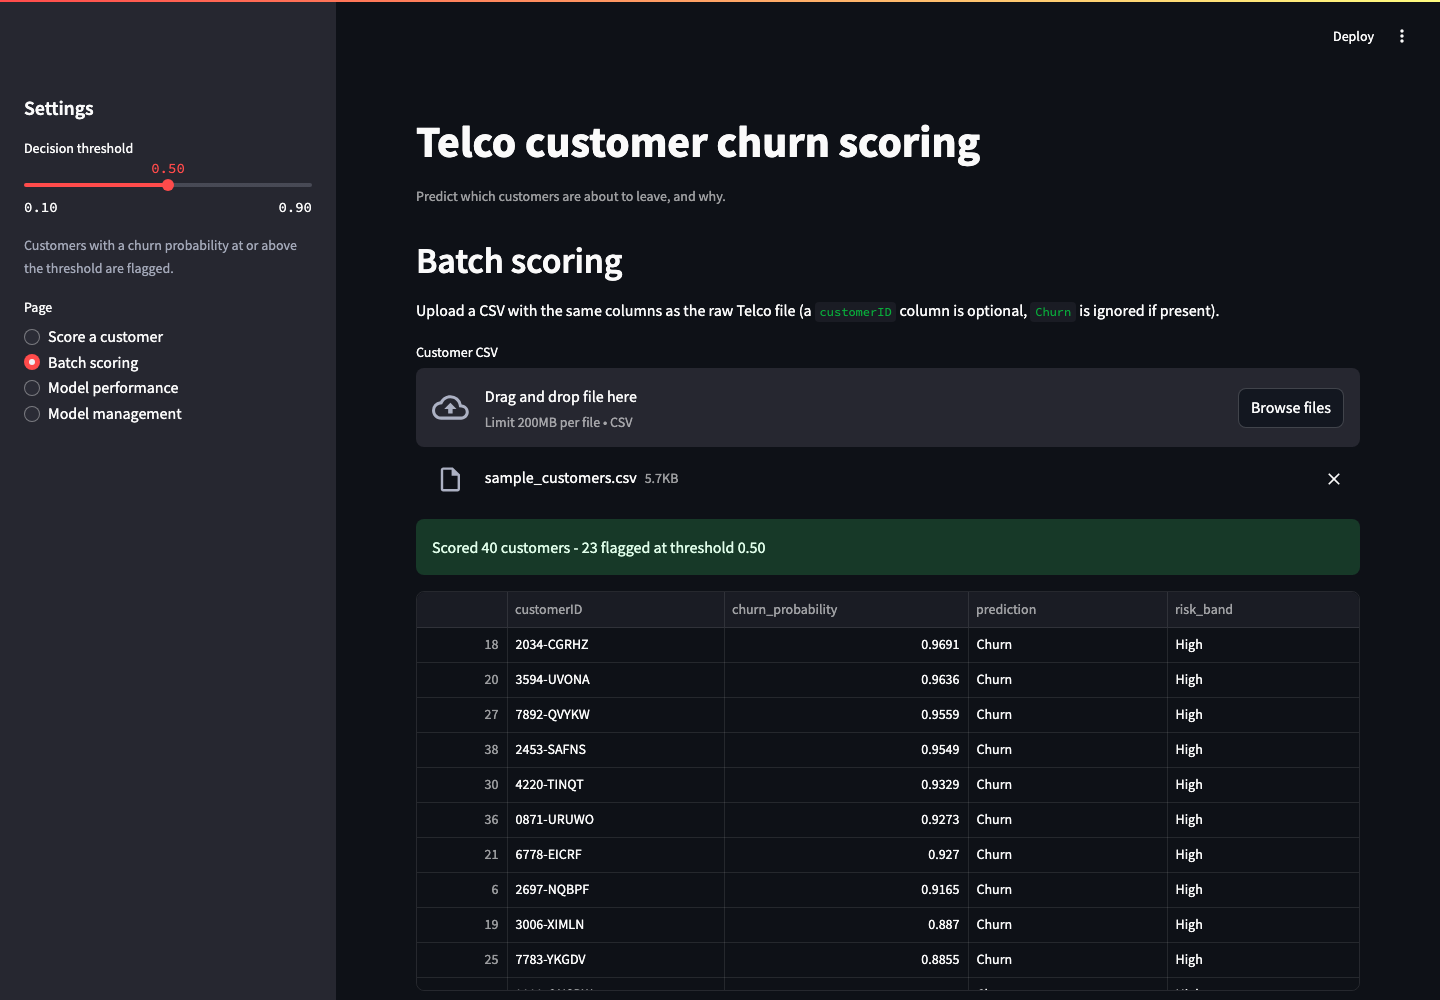
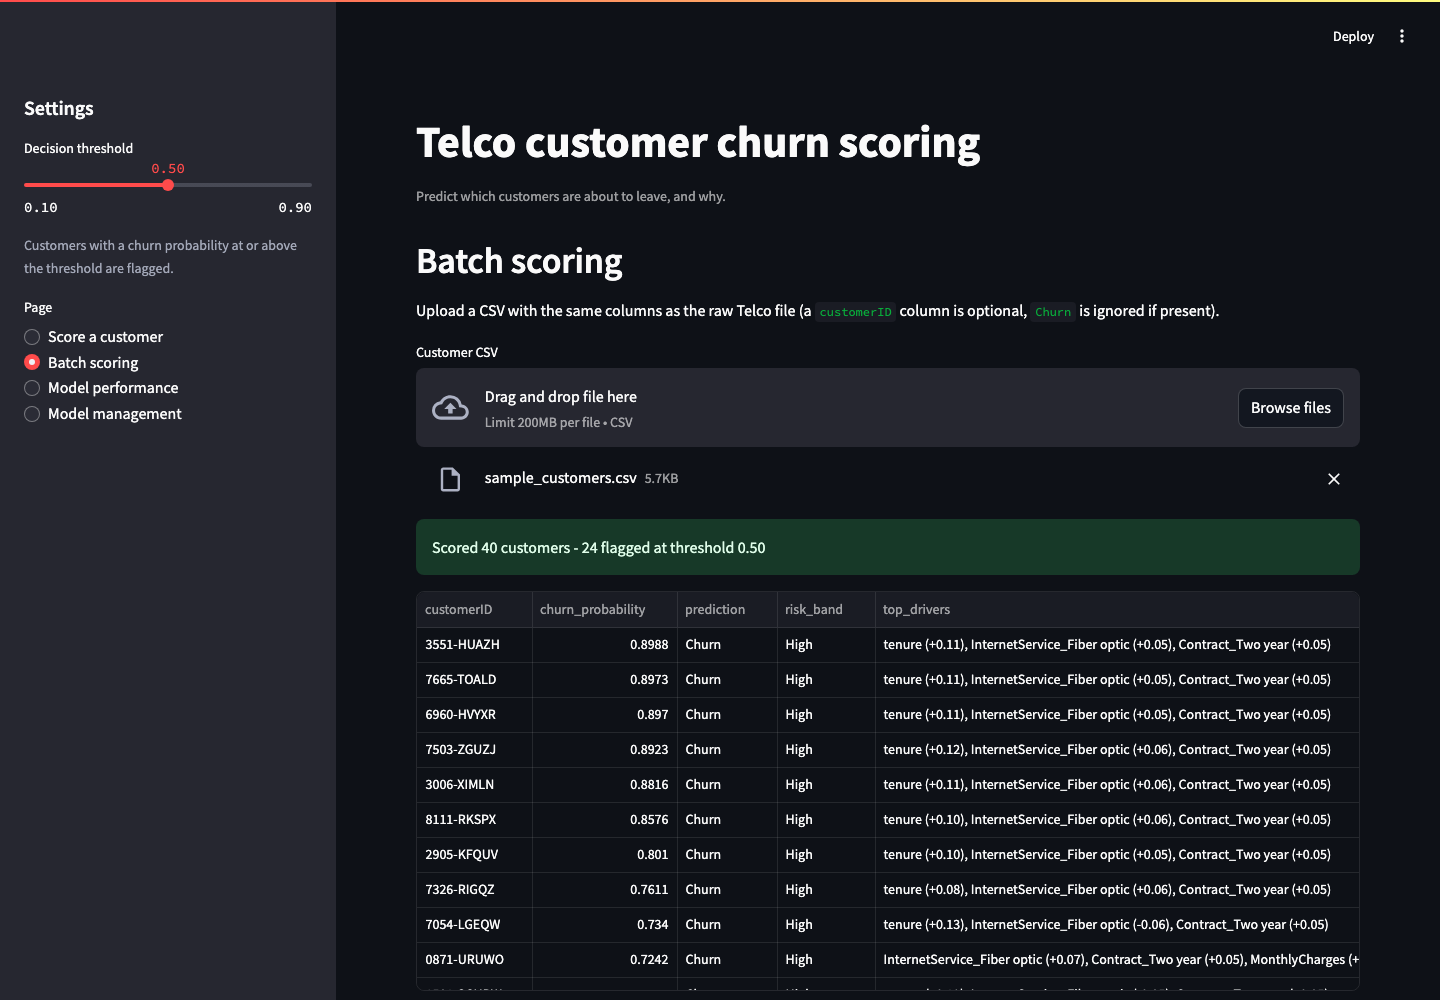
README: real cross-validated numbers, explainability and testing sections
The comparison tables now quote the pipeline CV and the single pass over the
untouched test split, the chosen model is the tuned Random Forest, and the
screenshots show the SHAP contributions. Re-ran the EDA notebook so every
notebook's outputs come from the current code.

diff --git a/README.md b/README.md
@@ -3,7 +3,7 @@
 An end-to-end churn model for a telecom customer base: cleaning and exploring the IBM Telco
 dataset, engineering features, comparing four classifiers under stratified cross-validation,
 tuning the winner, explaining its predictions with SHAP, and putting it behind a small Streamlit
-app that scores single customers or a whole CSV.
+app that scores single customers or a whole CSV and shows what drove each score.
 
 ## Why I built this
 
@@ -33,36 +33,43 @@ data/processed/               telco_clean.csv (output of notebook 01)
 notebooks/
   01_data_cleaning.ipynb      types, duplicates, outliers, target balance
   02_eda.ipynb                univariate / bivariate analysis, correlation matrix
-  03_feature_engineering.ipynb derived features, encoding, mutual information
-  04_modelling.ipynb          SMOTE, 5-fold CV comparison, tuning, test-split results
-  05_explainability.ipynb     SHAP global + local explanations of the final model
+  03_feature_engineering.ipynb derived features, train/test split, encoding, mutual information
+  04_modelling.ipynb          pipeline CV comparison, tuning, one pass over the test split
+  05_explainability.ipynb     SHAP global + local explanations, permutation importance
 src/
   data.py                     load / clean helpers
-  features.py                 derived columns, encoding + scaling
-  train.py                    model zoo, cross-validated comparison, random search
+  features.py                 derived columns and the encoding + scaling ColumnTransformer
+  train.py                    model zoo, imblearn pipelines, CV comparison, random search
   metrics.py                 metrics and diagnostic plots
+  explain.py                  SHAP helpers shared by notebook 05 and the app
 app/streamlit_app.py          scoring UI
-models/                       saved model, scaler and feature list
+models/                       churn_pipeline.joblib (preprocessor + model), feature list
 reports/figures/              every plot referenced below
 reports/metrics.json          numbers the app and this README quote
-tests/                        pytest suite for the feature pipeline and scoring path
+tests/                        pytest suite for the cleaning rules, features and scoring path
+data/sample_customers.csv     40 real customers for the batch page and the tests
 ```
 
 ## Approach
 
-1. **Cleaning** (`01`) - parse `TotalCharges` to numeric, normalise `SeniorCitizen` to Yes/No,
-   collapse the redundant `No internet service` levels, check duplicates and IQR outliers.
+1. **Cleaning** (`01`) - parse `TotalCharges` to numeric (its eleven blanks are single spaces
+   that `isna()` misses; they are all first-month customers and become 0 explicitly), normalise
+   `SeniorCitizen` to Yes/No, collapse the redundant `No internet service` levels, check
+   duplicates and IQR outliers.
 2. **EDA** (`02`) - churn rate by every categorical, distributions of tenure and charges, a
    correlation matrix, and written conclusions under each plot.
 3. **Feature engineering** (`03`) - `avg_monthly_charge`, `charge_ratio`, `num_services` and
-   `tenure_group`; one-hot encoding and standard scaling; mutual-information ranking.
-4. **Modelling** (`04`) - SMOTE for the imbalance, Logistic Regression vs Random Forest vs XGBoost
-   vs LightGBM under stratified 5-fold CV, random-search tuning of the best family, scoring on
-   a held-out 20% split, threshold sweep.
-5. **Explainability** (`05`) - SHAP summary and dependence plots for the tuned model, plus local
-   explanations for individual customers.
-6. **App** - Streamlit UI with a single-customer form, batch CSV scoring, a threshold slider and a
-   performance page.
+   `tenure_group`; a stratified 80/20 split *before* anything is fitted; a `ColumnTransformer`
+   (one-hot + standard scaling) fit on the training rows; mutual-information ranking.
+4. **Modelling** (`04`) - every model is an imbalanced-learn pipeline
+   `preprocessor -> SMOTE -> classifier`, so resampling and scaling happen inside each CV fold.
+   Logistic Regression vs Random Forest vs XGBoost vs LightGBM under stratified 5-fold CV,
+   `RandomizedSearchCV` on the training split for the best family, then a single scoring pass over
+   the untouched 20%, plus a threshold sweep.
+5. **Explainability** (`05`) - SHAP summary, dependence and waterfall plots for the tuned model,
+   cross-checked with permutation importance.
+6. **App** - Streamlit UI with a single-customer form, batch CSV scoring, SHAP contributions for
+   every score, a threshold slider, a performance page and a locked model-management page.
 
 ## EDA insights
 
@@ -94,65 +101,99 @@ in the first twelve months.
 average monthly charge instead of leaning on both. Against the target, tenure is the strongest
 linear signal (-0.35).
 
+Two things the EDA settled for the modelling: the target is 26.5% positive, so accuracy alone
+would flatter a model that never predicts churn, and the "first twelve months" effect is a step,
+not a slope, which favours tree models or an explicit tenure bucket.
+
 ## Model comparison
 
-Stratified 5-fold cross-validation on the training split (means over folds):
+Stratified 5-fold cross-validation on the 5,634 training rows (means over folds; SMOTE and the
+scaler are refit inside every fold, the validation fold is real data):
 
 | Model | Accuracy | Precision | Recall | F1 | ROC-AUC |
 |---|---|---|---|---|---|
-| Logistic Regression | 0.8134 | 0.7965 | 0.8417 | 0.8185 | 0.9027 |
-| Random Forest | 0.8246 | 0.8014 | 0.8632 | 0.8311 | 0.9041 |
-| XGBoost | 0.8274 | 0.8057 | 0.8630 | 0.8333 | 0.9101 |
-| **LightGBM** | **0.8369** | **0.8215** | 0.8611 | **0.8407** | **0.9151** |
+| Logistic Regression | 0.7691 | 0.5512 | 0.7037 | 0.6181 | 0.8346 |
+| **Random Forest** | 0.7772 | 0.5626 | **0.7184** | **0.6307** | **0.8395** |
+| XGBoost | 0.7767 | 0.5636 | 0.7010 | 0.6247 | 0.8369 |
+| LightGBM | **0.7835** | **0.5788** | 0.6749 | 0.6229 | 0.8344 |
 
-Held-out test split (20%), default threshold 0.5:
+Held-out test split (1,409 customers, never resampled, scored once), default threshold 0.5:
 
-| Model | Accuracy | Precision | Recall | F1 | ROC-AUC |
-|---|---|---|---|---|---|
-| Logistic Regression | 0.8222 | 0.8040 | 0.8522 | 0.8274 | 0.9050 |
-| Random Forest | 0.8314 | 0.8046 | 0.8754 | 0.8385 | 0.9107 |
-| XGBoost | 0.8295 | 0.8067 | 0.8667 | 0.8356 | 0.9111 |
-| LightGBM | 0.8478 | 0.8232 | 0.8860 | 0.8534 | 0.9199 |
-| **LightGBM (tuned)** | 0.8440 | 0.8290 | 0.8667 | 0.8474 | **0.9266** |
+| Model | Accuracy | Precision | Recall | F1 | ROC-AUC | PR-AUC |
+|---|---|---|---|---|---|---|
+| Logistic Regression | 0.7679 | 0.5493 | 0.7005 | 0.6157 | 0.8344 | 0.6336 |
+| Random Forest | 0.7693 | 0.5499 | 0.7219 | 0.6243 | 0.8381 | 0.6376 |
+| XGBoost | 0.7693 | 0.5520 | 0.6952 | 0.6154 | 0.8327 | 0.6427 |
+| LightGBM | 0.7835 | 0.5762 | 0.6979 | 0.6312 | 0.8329 | 0.6389 |
+| **Random Forest (tuned)** | 0.7573 | 0.5288 | **0.7861** | **0.6323** | **0.8424** | **0.6509** |
 
 ![ROC curves](reports/figures/13_roc_curves.png)
 
+Why these numbers and not higher: with SMOTE applied only to the training folds and a test set
+that is 26.5% churners like the real base, ~0.84 ROC-AUC and ~0.63 F1 is what this dataset
+supports. Accuracy in the high 70s sounds worse than the 73% you get by predicting "stays" for
+everyone, but that trivial model has zero recall; these catch 70-79% of churners.
+
 ### Chosen model
 
-**LightGBM**, tuned by random search (`n_estimators=600, learning_rate=0.05, num_leaves=31,
-min_child_samples=40, subsample=0.85`). It has the best cross-validated ROC-AUC and F1, trains in
-under a second, and its tree structure gives cheap SHAP values for the app. Logistic regression is
-only ~1 point of AUC behind and would be the pick if interpretability of the raw coefficients
-mattered more than ranking quality.
+**Random Forest**, tuned by random search (`n_estimators=200, max_depth=6, max_features=0.3,
+min_samples_leaf=2`; CV ROC-AUC 0.8439). The four families sit within a fold's standard
+deviation (~0.01) of each other on ROC-AUC, so the pick came down to recall - the metric a
+retention campaign is paid on - where the forest leads at every threshold I looked at, and to
+cheap exact SHAP values from `TreeExplainer`. Tuning pushed it towards a shallower, more
+regularised forest that trades a few points of precision for +6 points of recall. Logistic
+regression is 0.8 points of AUC behind and would be the pick if the raw coefficients had to be
+presented to a non-technical audience.
 
-The threshold sweep (`reports/figures/16_threshold_sweep.png`) shows recall of 0.93 at a 0.3
-cut-off for a precision of 0.78 - the app exposes the threshold as a slider so a retention team
-can trade precision for recall depending on how many customers they can contact.
+The threshold sweep (`reports/figures/16_threshold_sweep.png`) shows F1 peaking at the default
+0.5 (precision 0.53, recall 0.79). Dropping the cut-off to 0.35 lifts recall to 0.90 at a
+precision of 0.44 - one real churner for every 2.3 customers contacted. The app exposes the
+threshold as a slider so a retention team can pick the point that matches their capacity.
 
 ## Explainability
 
-`05_explainability.ipynb` computes SHAP values for the tuned model on the test split.
-`reports/figures/18_shap_summary.png` is the global summary: contract type, tenure, the fiber
-optic flag and monthly charges drive most predictions, in that order. The app shows the same SHAP
-contributions for whichever customer is being scored.
+`05_explainability.ipynb` computes exact SHAP values for the tuned forest on the test split.
+
+![SHAP summary](reports/figures/18_shap_summary.png)
+
+Contract type is the biggest lever - a two-year contract pulls a customer's churn probability
+down by up to 0.3, a one-year by ~0.2 - followed by tenure, the fiber optic flag (which pushes
+*towards* churn for every customer that has it) and the `OnlineSecurity` add-on. The charge
+columns come next; gender, phone service, the streaming add-ons and my `charge_ratio` feature
+barely register. The dependence plot for tenure (`20_shap_dependence.png`) shows the effect is a
+step through the first year and flat afterwards, exactly the pattern the EDA found.
+
+| Customer the model is surest will churn | Surest will stay |
+|---|---|
+| ![churner](reports/figures/21_local_churner.png) | ![loyal](reports/figures/21_local_loyal.png) |
+
+Permutation importance on the raw columns (`22_permutation_importance.png`) agrees on the top
+three - contract, internet service, tenure - and shows the bottom half of the features could be
+dropped for less than half a point of ROC-AUC.
+
+The app computes the same per-feature contributions (`src/explain.py`) for every customer it
+scores: a bar chart on the single-customer page and a `top_drivers` column in batch results.
 
 ## Running it
 
 ```bash
 python3.12 -m venv .venv && source .venv/bin/activate
 pip install -r requirements.txt
-cp .env.example .env
+cp .env.example .env            # optional: set CHURN_ADMIN_PASSWORD to unlock model management
 
-# reproduce everything (each notebook writes the inputs the next one reads)
+# reproduce everything (each notebook writes the inputs the next one reads; ~5 minutes)
 jupyter nbconvert --execute --to notebook --inplace notebooks/0*.ipynb
 
 # start the app
 streamlit run app/streamlit_app.py --server.port 8531
 ```
 
-The app has four pages: **Score a customer** (form), **Batch scoring** (upload a CSV with the raw
-Telco columns), **Model performance** (the tables above plus the EDA takeaways) and **Model
-management** (swap the deployed model file).
+The saved pipeline and figures are committed, so the app runs without re-executing the
+notebooks. It has four pages: **Score a customer** (form + SHAP contributions), **Batch scoring**
+(upload a CSV with the raw Telco columns - `data/sample_customers.csv` is a ready-made one),
+**Model performance** (the tables above plus the EDA takeaways) and **Model management** (shows
+the live model file and switches between pipelines deployed under `models/`; locked unless
+`CHURN_ADMIN_PASSWORD` is set).
 
 ## Testing
 
@@ -160,8 +201,11 @@ management** (swap the deployed model file).
 pytest
 ```
 
-The suite under `tests/` covers the cleaning function, the derived features and a round trip
-through the app's scoring path with a handful of known customers.
+Fourteen tests under `tests/` run against forty real customers from `data/sample_customers.csv`
+and the committed pipeline: the blank-`TotalCharges` rules, the derived-feature arithmetic, stable
+preprocessor column order (including unseen category levels), probability sanity on a known
+high-risk and low-risk profile, batch/single agreement, and SHAP contributions summing to the
+predicted probability.
 
 ## Screenshots
 
@@ -171,6 +215,7 @@ through the app's scoring path with a handful of known customers.
 
 ## Roadmap
 
-- Calibrate the probabilities (Platt / isotonic) so the score reads as a real likelihood.
+- Calibrate the probabilities (Platt / isotonic) so the score reads as a real likelihood - SMOTE
+  shifts the base rate to 50%, so today's 0.5 is a ranking cut-off rather than a true 50% chance.
 - Add a cost-based threshold picker: expected retention offer cost vs expected lost revenue.
 - Track drift on incoming batches against the training distribution.
